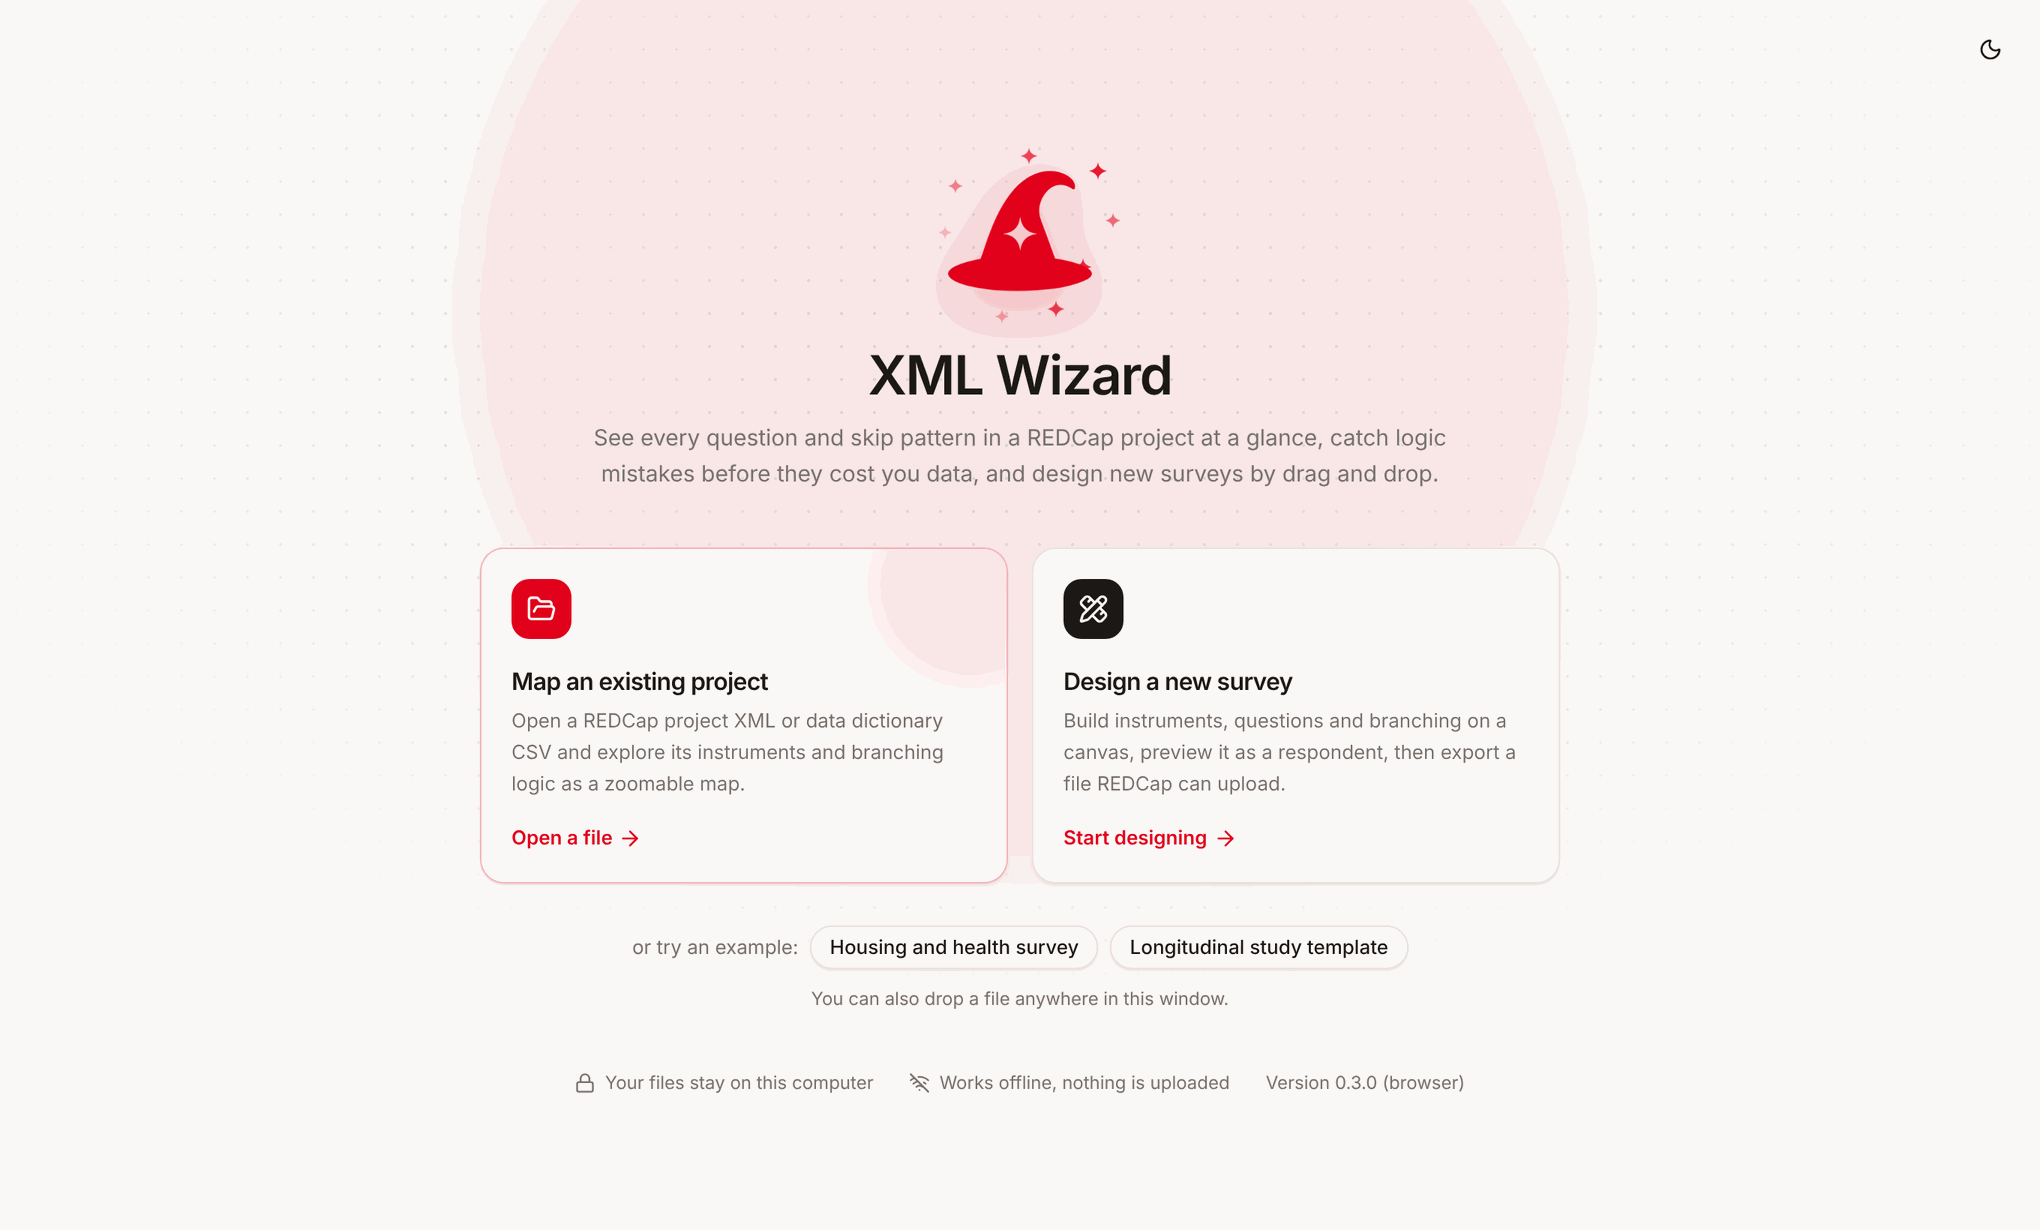
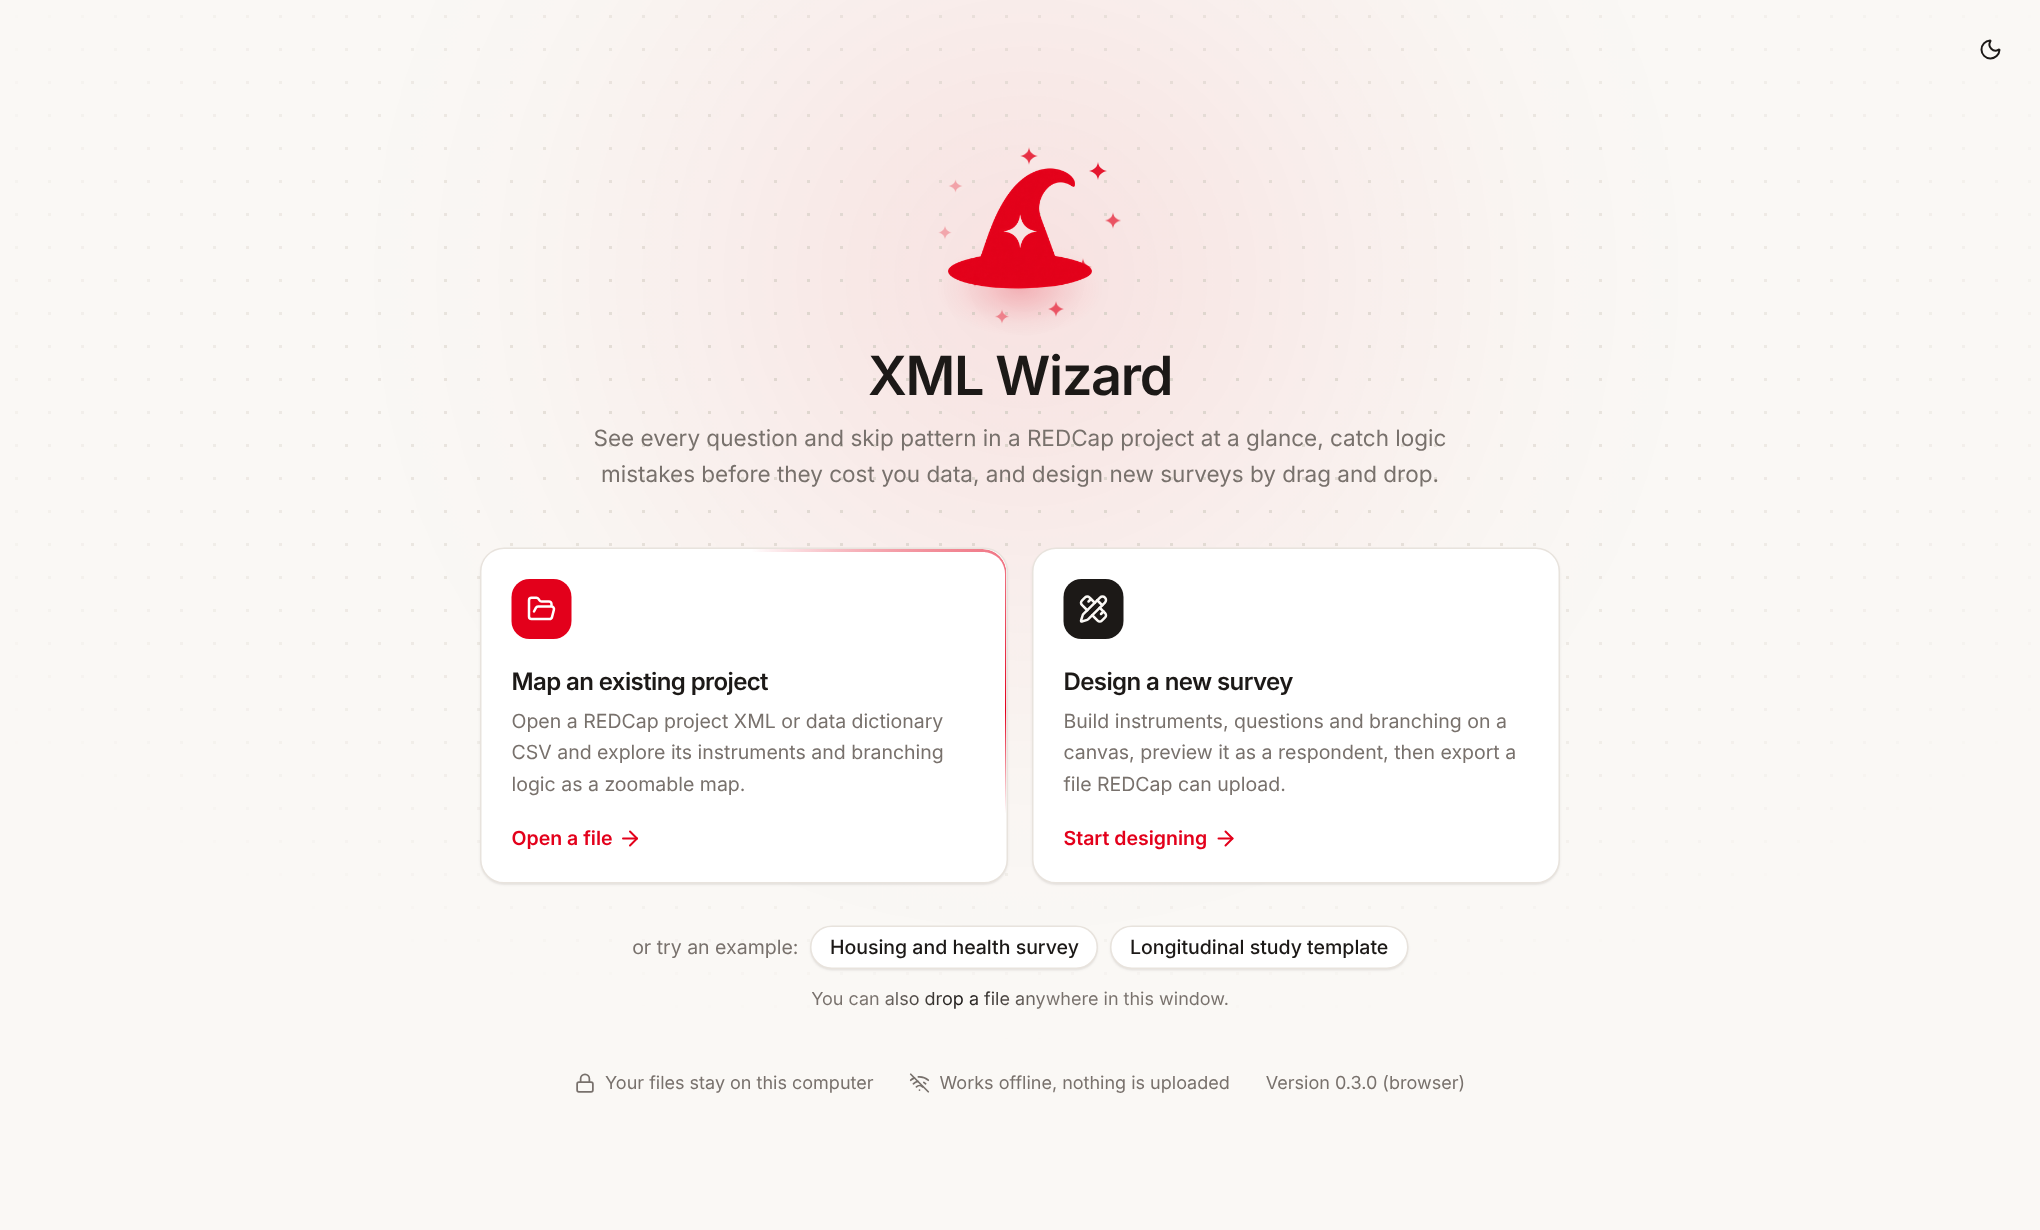
Fix the glow bleed on the welcome screen and add Magic UI style effects
The soft glows used CSS blur filters, which some renderers draw with a hard
edge. They are now plain radial gradients. Adds a pointer spotlight on the
action cards, a border beam on the primary card and a shimmer on the hint.

Claude-Session: https://claude.ai/code/session_01KeNoDVKL5adSDF2Gn93vQ4

diff --git a/desktop/src/components/Welcome.tsx b/desktop/src/components/Welcome.tsx
@@ -6,6 +6,7 @@ import { isDesktop } from "@/lib/platform";
 import { clearAutosave, newProject, openExample, openProject, readAutosave, resumeAutosave } from "@/lib/session";
 import { cn } from "@/lib/utils";
 import { Button } from "./ui/button";
+import { BorderBeam, Glow, MagicCard, ShinyText } from "./ui/magic";
 
 const SPARKS = [
   [12, 22, 0], [86, 14, 0.6], [22, 70, 1.2], [78, 64, 0.3], [50, 6, 0.9], [6, 46, 1.6], [94, 40, 1.1], [64, 86, 0.2], [36, 90, 1.4],
@@ -24,17 +25,16 @@ function ActionCard({ icon, title, text, cta, onClick, primary }: {
   icon: React.ReactNode; title: string; text: string; cta: string; onClick: () => void; primary?: boolean;
 }) {
   return (
-    <motion.button whileHover={{ y: -3 }} whileTap={{ scale: 0.985 }} transition={{ type: "spring", stiffness: 420, damping: 26 }} onClick={onClick}
-      className={cn("group relative flex flex-col items-start overflow-hidden rounded-2xl border p-5 text-left shadow-card transition-shadow hover:shadow-lift",
-        primary ? "border-primary/30 bg-surface" : "border-border bg-surface")}>
-      {primary ? <span aria-hidden className="pointer-events-none absolute -right-16 -top-16 size-44 rounded-full bg-primary/10 blur-2xl" /> : null}
+    <MagicCard whileHover={{ y: -3 }} whileTap={{ scale: 0.985 }} transition={{ type: "spring", stiffness: 420, damping: 26 }} onClick={onClick}
+      className="flex flex-col items-start rounded-2xl border border-border bg-surface p-5 text-left shadow-card transition-shadow hover:shadow-lift">
+      {primary ? <BorderBeam /> : null}
       <span className={cn("grid size-10 place-items-center rounded-xl [&_svg]:size-5", primary ? "bg-primary text-primary-foreground" : "bg-foreground text-background")}>{icon}</span>
       <span className="mt-4 text-base font-semibold tracking-tight">{title}</span>
       <span className="mt-1 text-[13px] leading-relaxed text-muted-foreground">{text}</span>
       <span className="mt-4 inline-flex items-center gap-1 text-[13px] font-semibold text-primary">
         {cta} <ArrowRight className="size-4 transition-transform group-hover:translate-x-0.5" />
       </span>
-    </motion.button>
+    </MagicCard>
   );
 }
 
@@ -43,7 +43,7 @@ export function Welcome({ dark, onToggleDark }: { dark: boolean; onToggleDark: (
   return (
     <div className="thin-scroll relative h-full overflow-y-auto">
       <div aria-hidden className="pointer-events-none absolute inset-0 overflow-hidden">
-        <div className="absolute left-1/2 top-[-18%] size-[720px] -translate-x-1/2 rounded-full bg-primary/[0.07] blur-3xl" style={{ animation: "drift 16s ease-in-out infinite" }} />
+        <Glow strength={9} className="left-1/2 top-[-260px] -ml-[450px] size-[900px]" style={{ animation: "drift 16s ease-in-out infinite" }} />
         <div className="absolute inset-0 [background-image:radial-gradient(var(--canvas-dot)_1px,transparent_1px)] [background-size:22px_22px] [mask-image:radial-gradient(ellipse_60%_55%_at_50%_30%,black,transparent)]" />
       </div>
       <Button variant="ghost" size="icon" aria-label="Switch theme" onClick={onToggleDark} className="absolute right-4 top-4 z-10">{dark ? <Sun /> : <Moon />}</Button>
@@ -53,8 +53,11 @@ export function Welcome({ dark, onToggleDark }: { dark: boolean; onToggleDark: (
           className="flex flex-col items-center text-center">
           <div className="relative grid size-32 place-items-center">
             {SPARKS.map(([x, y, d], k) => <Sparkle key={k} x={x} y={y} delay={d} />)}
-            <motion.img src={logo} alt="" draggable={false} className="size-24 drop-shadow-[0_10px_18px_rgba(227,0,27,0.25)]"
-              initial={{ rotate: -8, scale: 0.9 }} animate={{ rotate: 0, scale: 1 }} transition={{ type: "spring", stiffness: 160, damping: 12 }} />
+            <Glow strength={22} className="inset-x-2 bottom-[-6px] h-16" />
+            <div className="relative" style={{ animation: "float 6s ease-in-out 1s infinite" }}>
+              <motion.img src={logo} alt="" draggable={false} className="size-24"
+                initial={{ rotate: -8, scale: 0.9 }} animate={{ rotate: 0, scale: 1 }} transition={{ type: "spring", stiffness: 160, damping: 12 }} />
+            </div>
           </div>
           <h1 className="mt-3 text-4xl font-semibold tracking-tight">XML Wizard</h1>
           <p className="mt-2.5 max-w-xl text-[15px] leading-relaxed text-muted-foreground">
@@ -93,7 +96,7 @@ export function Welcome({ dark, onToggleDark }: { dark: boolean; onToggleDark: (
           <button onClick={() => openExample("most")} className="rounded-full border border-border bg-surface px-3 py-1 font-medium shadow-card hover:border-primary hover:text-primary">Longitudinal study template</button>
         </motion.div>
 
-        <p className="mt-3 text-xs text-muted-foreground">You can also drop a file anywhere in this window.</p>
+        <p className="mt-3 text-xs"><ShinyText>You can also drop a file anywhere in this window.</ShinyText></p>
 
         <div className="mt-10 flex flex-wrap items-center justify-center gap-x-6 gap-y-2 text-xs text-muted-foreground">
           <span className="inline-flex items-center gap-1.5"><Lock className="size-3.5" /> Your files stay on this computer</span>

diff --git a/desktop/src/index.css b/desktop/src/index.css
@@ -120,6 +120,72 @@
   50% { opacity: 0.9; transform: scale(1); }
 }
 
+@property --beam-angle {
+  syntax: "<angle>";
+  inherits: false;
+  initial-value: 0deg;
+}
+@keyframes beam {
+  to { --beam-angle: 360deg; }
+}
+@keyframes shine {
+  from { background-position: 150% 0; }
+  to { background-position: -50% 0; }
+}
+@keyframes float {
+  0%, 100% { transform: translateY(0); }
+  50% { transform: translateY(-5px); }
+}
+
+/* Magic UI style effects (see components/ui/magic.tsx). */
+.border-beam {
+  position: absolute;
+  inset: 0;
+  border-radius: inherit;
+  padding: 1.5px;
+  pointer-events: none;
+  background: conic-gradient(from var(--beam-angle), transparent 0 70%, color-mix(in srgb, var(--primary) 55%, transparent) 86%, var(--primary) 94%, transparent 100%);
+  -webkit-mask: linear-gradient(#000 0 0) content-box, linear-gradient(#000 0 0);
+  -webkit-mask-composite: xor;
+  mask: linear-gradient(#000 0 0) content-box exclude, linear-gradient(#000 0 0);
+  animation: beam linear infinite;
+}
+.magic-card { --mx: -400px; --my: -400px; }
+.magic-card-light,
+.magic-card-edge {
+  position: absolute;
+  inset: 0;
+  border-radius: inherit;
+  pointer-events: none;
+  opacity: 0;
+  transition: opacity 0.25s ease;
+}
+.magic-card-light {
+  z-index: -1;
+  background: radial-gradient(260px circle at var(--mx) var(--my), color-mix(in srgb, var(--primary) 9%, transparent), transparent 70%);
+}
+.magic-card-edge {
+  padding: 1px;
+  background: radial-gradient(220px circle at var(--mx) var(--my), color-mix(in srgb, var(--primary) 70%, transparent), transparent 70%);
+  -webkit-mask: linear-gradient(#000 0 0) content-box, linear-gradient(#000 0 0);
+  -webkit-mask-composite: xor;
+  mask: linear-gradient(#000 0 0) content-box exclude, linear-gradient(#000 0 0);
+}
+.magic-card:hover .magic-card-light,
+.magic-card:hover .magic-card-edge { opacity: 1; }
+.shiny-text {
+  background: linear-gradient(110deg, var(--muted-foreground) 40%, var(--foreground) 50%, var(--muted-foreground) 60%) 150% 0 / 200% 100%;
+  -webkit-background-clip: text;
+  background-clip: text;
+  color: transparent;
+  animation: shine 5s linear infinite;
+}
+@media (prefers-reduced-motion: reduce) {
+  .border-beam, .shiny-text { animation: none; }
+  .border-beam { display: none; }
+  .shiny-text { color: var(--muted-foreground); background: none; }
+}
+
 @layer base {
   * {
     border-color: var(--border);

diff --git a/desktop/src/components/ui/magic.tsx b/desktop/src/components/ui/magic.tsx
@@ -1,0 +1,46 @@
+/* Small decorative effects in the style of Magic UI (magicui.design, MIT), written without CSS
+   filters so they look the same in every webview and stay cheap to paint. */
+import { useRef } from "react";
+import { motion, type HTMLMotionProps } from "motion/react";
+import { cn } from "@/lib/utils";
+
+/** A soft light that follows the pointer across a card, plus a matching glow on its border. */
+export function MagicCard({ className, children, ...rest }: Omit<HTMLMotionProps<"button">, "children"> & { children: React.ReactNode }) {
+  const ref = useRef<HTMLButtonElement>(null);
+  const move = (e: React.PointerEvent) => {
+    const el = ref.current;
+    if (!el) return;
+    const r = el.getBoundingClientRect();
+    el.style.setProperty("--mx", e.clientX - r.left + "px");
+    el.style.setProperty("--my", e.clientY - r.top + "px");
+  };
+  return (
+    <motion.button ref={ref} onPointerMove={move} className={cn("magic-card group relative isolate overflow-hidden", className)} {...rest}>
+      <span aria-hidden className="magic-card-light" />
+      <span aria-hidden className="magic-card-edge" />
+      {children}
+    </motion.button>
+  );
+}
+
+/** A streak of light that travels around the border of its (relative, rounded) parent. */
+export function BorderBeam({ duration = 7, delay = 0 }: { duration?: number; delay?: number }) {
+  return <span aria-hidden className="border-beam" style={{ animationDuration: duration + "s", animationDelay: delay + "s" }} />;
+}
+
+/** Text with a slow highlight sweeping across it. */
+export function ShinyText({ className, children }: { className?: string; children: React.ReactNode }) {
+  return <span className={cn("shiny-text", className)}>{children}</span>;
+}
+
+/** A soft round glow drawn with a gradient (no blur filter, so it never shows a hard edge). */
+export function Glow({ className, strength = 14, style }: { className?: string; strength?: number; style?: React.CSSProperties }) {
+  return (
+    <div aria-hidden className={cn("pointer-events-none absolute rounded-full", className)}
+      style={{ background: `radial-gradient(closest-side, ${tint(strength)}, ${tint(strength * 0.45)} 45%, ${tint(strength * 0.12)} 75%, transparent)`, ...style }} />
+  );
+}
+
+function tint(percent: number) {
+  return `color-mix(in srgb, var(--primary) ${percent.toFixed(2)}%, transparent)`;
+}
